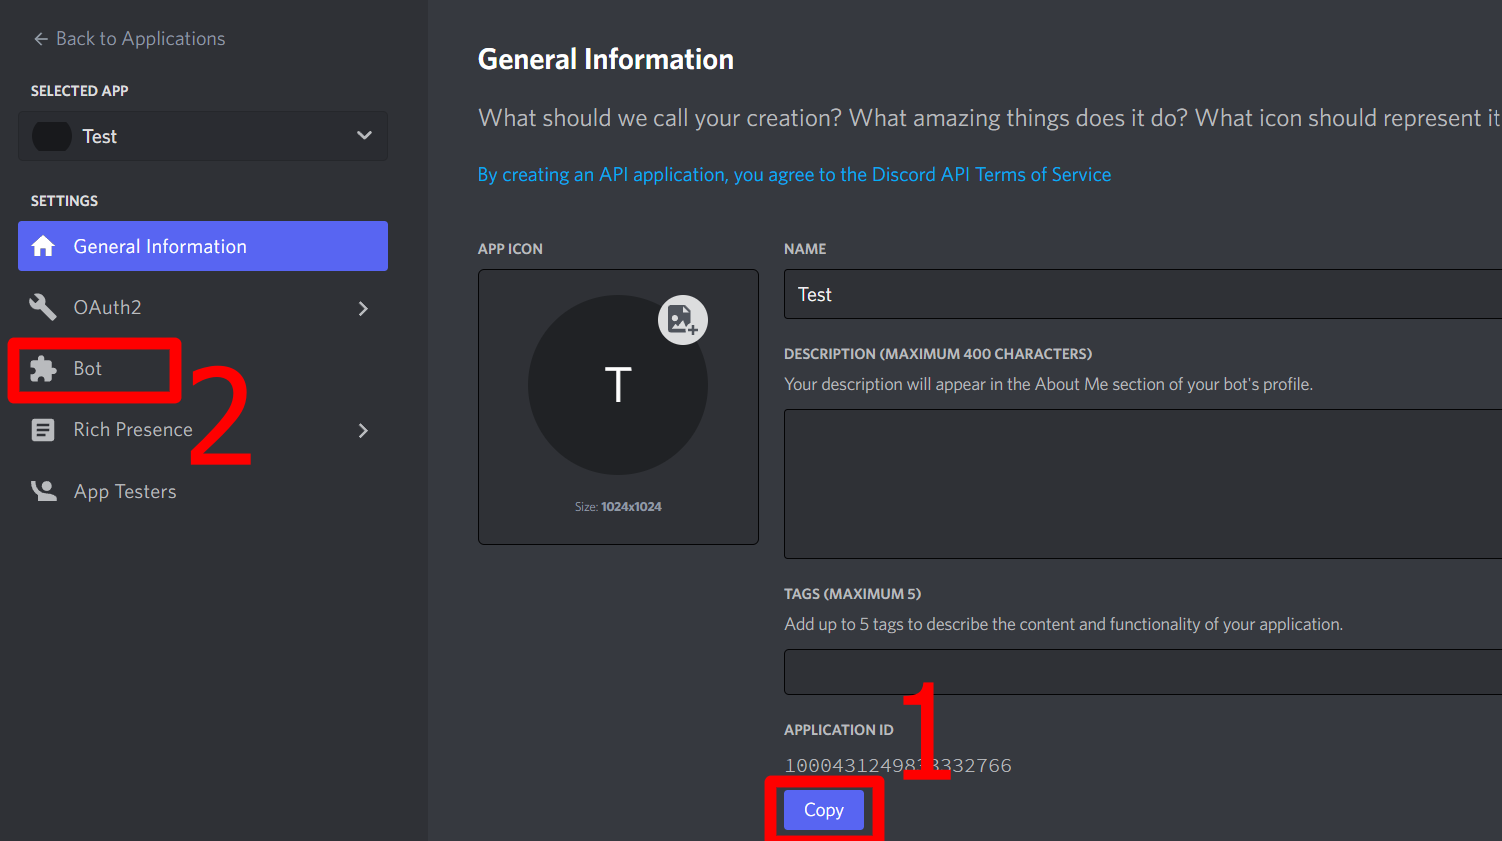
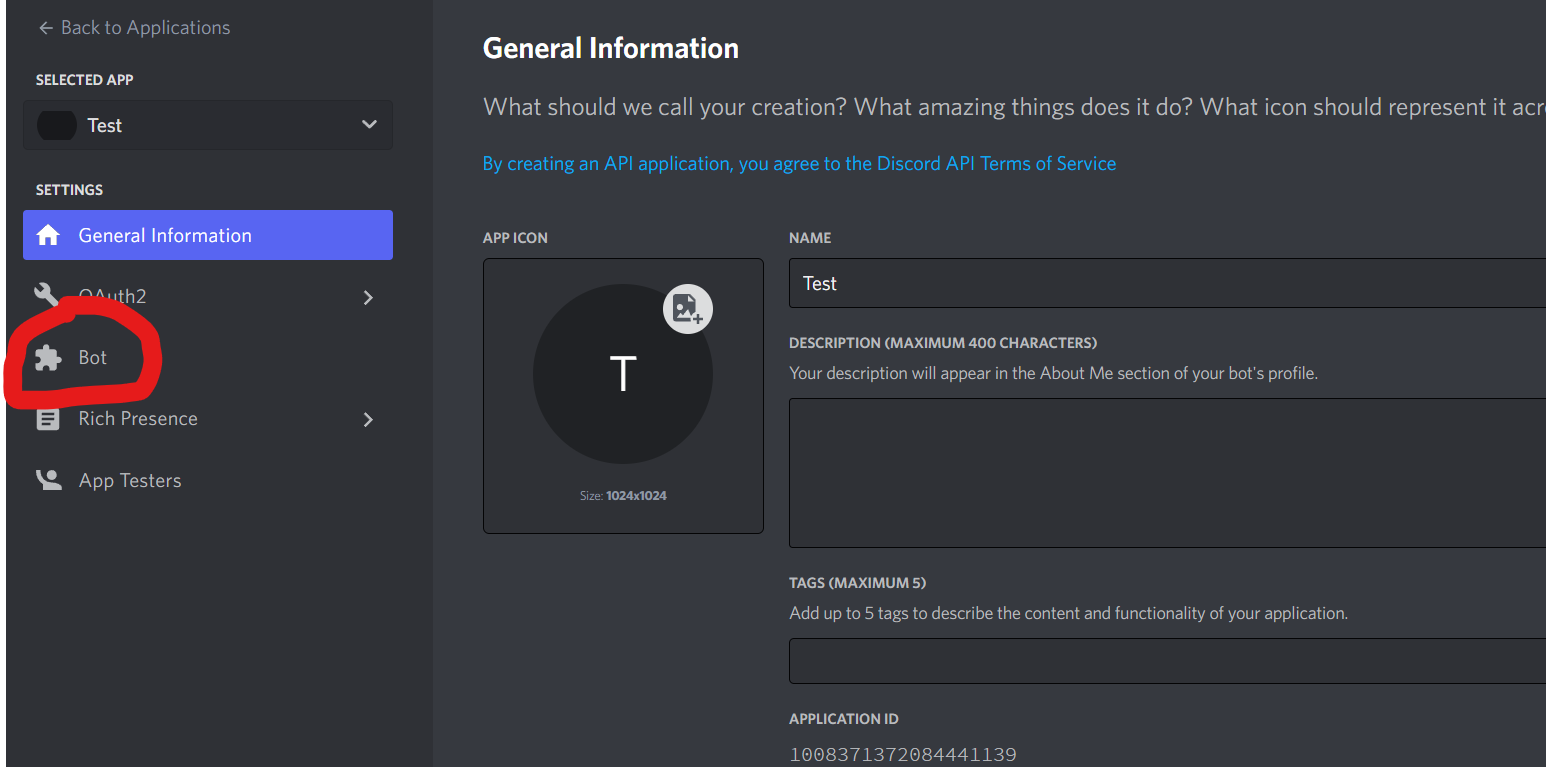
fix docs

diff --git a/docs/source/objects/bot.rst b/docs/source/objects/bot.rst
@@ -11,19 +11,11 @@ DisBot
 
 ::
 
-    class DisBot(token: Snowflake[str], application_id: Optional[Snowflake[int]],
-                 status: Optional[TypeOf(DisBotStatus)], flags: Optional[TypeOf(DisFlags)],
-                 debug: Optional[bool] = False, activity: Optional[Union[Activity, dict]])
+    class DisBot(token: Snowflake[str], status: Optional[TypeOf(DisBotStatus)],
+                 flags: Optional[TypeOf(DisFlags)], debug: Optional[bool] = False,
+                 activity: Optional[Union[Activity, dict]])
 
 ``token`` -> Token of bot from Discord Developer Portal
-
-``application_id`` -> Application id of bot from Discord Developer Portal
-
-.. note::
-    Default is ``None``
-
-.. warning::
-    If ``application_id == None`` you can't create application commands
 
 ``status`` -> Key of `DisBotStatus`_ object. Bot status in Discord (for example, "online")
 

diff --git a/README.md b/README.md
@@ -1,5 +1,5 @@
 # Dispy
-<p align=center><img src="imgs/logo.png" width="430" alt="logo" style="text-align: center"/></p>
+<p align=center><img src="logo.png" width="430" alt="logo" style="text-align: center"/></p>
 
 <p align=center>
     <a href="https://pypi.org/project/disspy">
@@ -35,7 +35,7 @@ For example, you can send messages use this code:
 ```python
 import disspy  # Import package
 
-bot = disspy.DisBot(token="YOUR_TOKEN", application_id=00000)  # Create a bot
+bot = disspy.DisBot(token="YOUR_TOKEN")  # Create a bot
 
 async def test():  # Send messages needs to execute in the async function
     channel_id = 000000  # Yours channel id

diff --git a/docs/source/first-steps/getting-started.rst b/docs/source/first-steps/getting-started.rst
@@ -41,7 +41,7 @@ Come on with name and click "Create"
 
 .. image:: images/3.png
 
-Put application id in your brain and click "Bot" section
+Click "Bot" section
 
 .. image:: images/4.png
 
@@ -71,7 +71,6 @@ Now let's coding!!!
     import disspy
 
     token = "YOUR_COPIED_TOKEN"
-    application_id = 0000000  # Your application_id
 
     bot = disspy.DisBot(token=token, application_id=application_id)  # You created bot!
 
@@ -88,4 +87,4 @@ In end of file you MUST type this code::
     bot.run()
 
 This is very important because this method run bot in Discord! Well...
-You are ready for other docs.
+You are ready for coding with disspy.

diff --git a/docs/source/first-steps/contributing.rst b/docs/source/first-steps/contributing.rst
@@ -13,7 +13,7 @@ If you want help my project you can `contribute.` For this you need fork repo. G
 with information about forks. Ok, after creating your fork, you need create commits about your contribution.
 Next you need create pull request. All! Our team will review your pull and merge it.
 
-You can do it with dispy and with dispy-api-docs, but you MUST follow rules that was described bellow.
+You can do it, but you MUST follow rules that was described bellow.
 
 Contributing rules
 ******************
